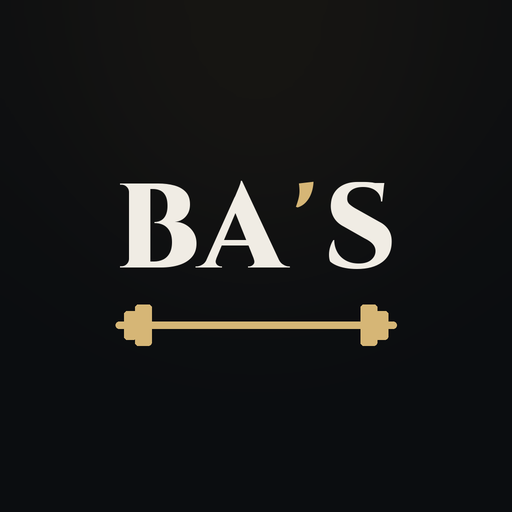
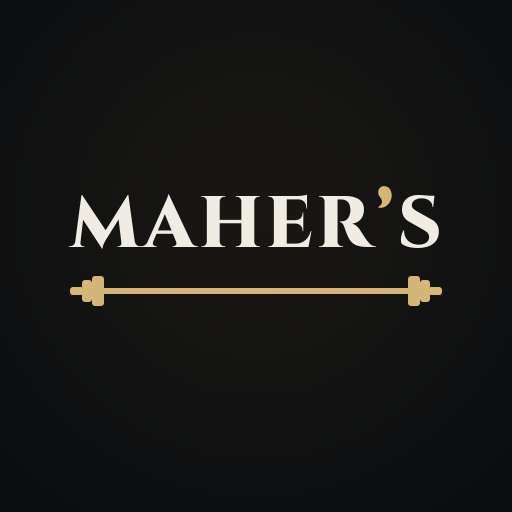
الاسم الجديد: MAHER'S — الهيدر والأيقونة والمانيفست (v77)
Claude-Session: https://claude.ai/code/session_01WkkKEXeXMmR17dA8Cavjmu

Changed region(s): [[0.125, 0.3438, 0.875, 0.5312], [0.125, 0.5312, 0.875, 0.6875]]

diff --git a/index.html b/index.html
@@ -8,7 +8,7 @@
 <link rel="manifest" href="manifest.webmanifest">
 <link rel="icon" href="icon-192.png">
 <link rel="apple-touch-icon" href="icon-192.png">
-<title>BA'S</title>
+<title>MAHER'S</title>
 <style>
 :root{--scb:#000;--sci:#0c0c0c;--font:system-ui,"Noto Naskh Arabic","Segoe UI",Tahoma,sans-serif;--fnum:inherit;--rad:14px;--radb:11px;--radp:99px;--bw:1px;--sh:none;--ttl:none;--ls:0;--bg:#0e0e0f;--s1:#17171a;--s2:#202024;--bd:#2d2d33;--tx:#ece8e1;--mu:#968f85;--ac:#c38d4f;--ac2:#e2b37c;--ok:#7bb072;--mid:#d6b05a;--bad:#d06c57;--onac:#160e05;--hero:#1d1810;--tx2:#cfc6b8;--ph:#55504a;--okbd:#3b5a37;--okbg:#1c2a1a;--midbd:#5c4d2a;--midbg:#2b2616;--badbg:#2a1a15;--acbd:#4a3a28;--acbg:#33261a;--oktx:#a6d69c;--midtx:#e5c97f;--badtx:#f0b3a3}
 *{box-sizing:border-box;-webkit-tap-highlight-color:transparent}
@@ -422,7 +422,7 @@ html[data-th=granite] #sess .ex.wn{background:linear-gradient(180deg,#221e14,#1a
 #sess .meta2 .inp{min-height:44px}
 #sess .exname{min-height:44px;display:flex;align-items:center}
 #sess .scell .inp::placeholder{color:var(--mu);opacity:.55;font-weight:500;font-size:17px}
-/* v72: الاسم BA'S بخط Cinzel كمسارات SVG */
+/* v77: الاسم MAHER'S بخط Cinzel 800 كمسارات SVG (كان BA'S) */
 .brand .wmk{height:17px;width:auto;display:block;flex:none;fill:var(--tx)}.brand .wmk .ap{fill:var(--ac2)}
 /* v73: جملة تحت سطر Cycle */
 @font-face{font-family:"BasQ";src:url(fonts/ruqaa.woff2) format("woff2");font-weight:700;font-display:swap}
@@ -618,11 +618,11 @@ html[data-th=granite] .pst.full{color:var(--gd)}
 <script src="quotes.js"></script>
 <script>
 'use strict';
-const VER='76';
+const VER='77';
 const KEY='gymlog.v1';
 /* ================= اللغة / Language ================= */
 const I18N={
-en:{brand:'<svg class="lg" viewBox="0 0 34 22" fill="none" stroke="currentColor" stroke-width="2" stroke-linecap="round" aria-hidden="true"><path d="M11 11h12"/><rect x="5" y="5" width="4" height="12" rx="1.2" fill="currentColor"/><rect x="25" y="5" width="4" height="12" rx="1.2" fill="currentColor"/><path d="M2 8.5v5M32 8.5v5"/></svg><svg class="wmk" viewBox="0 0 2423 700" role="img" aria-label="BA S"><path d="M113 627V73Q112 47 94 28Q75 10 49 10H36V0H355Q429 0 489 16Q549 32 585 70Q621 107 621 173Q621 219 602 251Q584 283 556 300Q527 317 494 319Q544 322 584 345Q625 368 650 408Q674 448 674 502Q674 569 636 613Q598 657 531 678Q464 700 376 700H36V690H49Q75 690 94 672Q112 653 113 627ZM290 46V652H320Q362 652 396 636Q430 619 450 583Q470 547 470 489Q470 449 460 419Q449 389 430 369Q410 349 384 340Q357 330 324 330V321Q348 321 368 313Q388 305 402 288Q417 272 425 246Q433 221 433 187Q433 135 418 104Q402 73 374 60Q347 46 311 46Z"/><path d="M1116 -22 1426 638Q1440 664 1461 675Q1485 690 1508 690H1516V700H1167V690H1176Q1196 690 1212 674Q1227 657 1214 627H1215L1171 519H946L900 627H901Q892 647 897 661Q902 675 914 682Q927 690 939 690H948V700H729V690H738Q761 690 786 675Q804 665 817 643L1053 118Q1058 111 1066 92Q1073 74 1082 52Q1092 30 1099 10Q1106 -10 1107 -22ZM1061 249 965 473H1152Z"/><path class="ap" d="M1598 0 1718 -14Q1719 5 1714 36Q1708 67 1694 100Q1679 132 1653 160Q1627 187 1587 200L1572 195Q1588 151 1595 121Q1602 91 1602 64Q1603 36 1598 0Z"/><path d="M2097 -14Q2117 -14 2150 -12Q2184 -10 2220 -7Q2232 -5 2244 -4H2320L2317 17L2302 151H2292Q2292 98 2252 65Q2211 32 2142 32Q2082 32 2046 58Q2011 83 2009 122Q2006 155 2030 176Q2054 197 2088 215L2277 321Q2328 346 2356 391Q2383 436 2379 500Q2374 603 2298 658Q2221 714 2090 714Q2039 714 1995 706Q1951 698 1918 684Q1885 669 1866 651Q1857 628 1858 594Q1860 560 1870 526Q1880 493 1894 472H1903Q1900 524 1924 569Q1947 614 1994 641Q2041 668 2106 668Q2175 667 2210 636Q2246 605 2246 563Q2246 531 2224 506Q2202 480 2153 456L1984 360Q1923 329 1896 278Q1868 226 1875 163Q1880 108 1908 68Q1936 29 1984 8Q2032 -14 2097 -14Z"/></svg>',title:"BA'S",langBtn:'عربي',tabs:['Home','Log','Program','Exercises','File'],update:'Update available — tap',
+en:{brand:'<svg class="lg" viewBox="0 0 34 22" fill="none" stroke="currentColor" stroke-width="2" stroke-linecap="round" aria-hidden="true"><path d="M11 11h12"/><rect x="5" y="5" width="4" height="12" rx="1.2" fill="currentColor"/><rect x="25" y="5" width="4" height="12" rx="1.2" fill="currentColor"/><path d="M2 8.5v5M32 8.5v5"/></svg><svg class="wmk" viewBox="0 0 5106 700" role="img" aria-label="MAHER S"><path d="M792 -14H801L889 627H890Q895 657 916 674Q936 690 963 690H979V700H651V691H667Q683 691 695 677Q706 665 706 649L667 322L488 609L478 626Q468 644 458 670Q448 696 448 722H439L180 327L143 643V648Q143 664 154 678Q166 691 182 691H198V700H-17V690H-1Q26 690 47 673Q65 659 71 634L157 -14H166L489 470Z"/><path d="M1357 -22 1667 638Q1681 664 1702 675Q1726 690 1749 690H1757V700H1408V690H1417Q1437 690 1452 674Q1468 657 1455 627H1456L1412 519H1187L1141 627H1142Q1133 647 1138 661Q1143 675 1156 682Q1168 690 1180 690H1189V700H970V690H979Q1002 690 1027 675Q1045 665 1058 643L1294 118Q1299 111 1306 92Q1314 74 1324 52Q1333 30 1340 10Q1347 -10 1348 -22ZM1302 249 1206 473H1393Z"/><path d="M1878 627V73Q1877 47 1858 28Q1840 10 1814 10H1801V0H2132V10H2119Q2093 10 2074 28Q2056 47 2055 73V328H2352V73Q2352 47 2333 28Q2314 10 2288 10H2275V0H2606V10H2593Q2567 10 2548 28Q2530 47 2529 73V627Q2530 653 2548 672Q2567 690 2593 690H2606V700H2275V690H2288Q2314 690 2333 672Q2352 653 2352 627V374H2055V627Q2056 653 2074 672Q2093 690 2119 690H2132V700H1801V690H1814Q1840 690 1858 672Q1877 653 1878 627Z"/><path d="M3314 482 3273 700H2721V690H2734Q2760 690 2778 672Q2797 653 2798 627V73Q2797 47 2778 28Q2760 10 2734 10H2721V0H3131Q3153 0 3178 -3Q3202 -6 3223 -10Q3244 -14 3253 -18V172H3243V162Q3243 109 3213 78Q3187 52 3144 47H2975V332H3096Q3138 331 3166 303Q3193 275 3192 234V228H3202V482H3192V475Q3192 434 3165 406Q3138 379 3096 378H2975V653H3102Q3151 653 3191 632Q3231 612 3260 574Q3289 535 3305 482Z"/><path d="M3494 627V73Q3493 47 3474 28Q3456 10 3430 10H3417V0H3784Q3829 0 3874 9Q3919 18 3956 40Q3992 61 4014 98Q4035 134 4035 189Q4035 229 4020 270Q4004 311 3968 341Q3933 371 3873 379Q3911 390 3940 418Q3968 445 3986 473Q3987 476 3996 491Q4005 506 4020 528Q4034 550 4049 573Q4064 596 4078 614Q4101 643 4118 660Q4136 676 4154 682Q4173 689 4198 690V700H4087Q4030 700 3982 692Q3935 683 3898 660Q3861 637 3833 591Q3823 576 3815 557L3799 520Q3791 502 3785 484Q3779 467 3774 452Q3769 436 3765 425Q3753 391 3738 376Q3722 362 3705 358V348H3728Q3756 348 3780 336Q3804 324 3821 298Q3838 272 3845 229Q3847 220 3848 209Q3849 198 3848 184Q3844 111 3812 80Q3779 49 3732 48H3672V627Q3672 653 3691 672Q3710 690 3736 690H3748V700H3417V690H3430Q3456 690 3474 672Q3493 653 3494 627Z"/><path class="ap" d="M4258 -117Q4280 -135 4308 -136Q4336 -137 4362 -122Q4387 -108 4399 -79Q4420 -34 4414 12Q4408 57 4383 94Q4358 130 4320 149Q4281 168 4235 161L4232 147Q4254 138 4268 118Q4283 98 4282 72Q4280 45 4255 16Q4238 -3 4232 -28Q4227 -54 4234 -78Q4240 -103 4258 -117Z"/><path d="M4780 -14Q4800 -14 4834 -12Q4867 -10 4903 -7Q4915 -5 4927 -4H5003L5000 17L4985 151H4975Q4975 98 4934 65Q4894 32 4825 32Q4765 32 4730 58Q4694 83 4692 122Q4689 155 4713 176Q4737 197 4771 215L4960 321Q5011 346 5038 391Q5066 436 5062 500Q5057 603 4980 658Q4904 714 4773 714Q4722 714 4678 706Q4634 698 4601 684Q4568 669 4549 651Q4540 628 4542 594Q4543 560 4553 526Q4563 493 4577 472H4586Q4583 524 4606 569Q4630 614 4677 641Q4724 668 4789 668Q4858 667 4894 636Q4929 605 4929 563Q4929 531 4907 506Q4885 480 4836 456L4667 360Q4606 329 4578 278Q4551 226 4558 163Q4563 108 4591 68Q4619 29 4667 8Q4715 -14 4780 -14Z"/></svg>',title:"MAHER'S",langBtn:'عربي',tabs:['Home','Log','Program','Exercises','File'],update:'Update available — tap',
  next:'Next session',coreL:'Core',start:'Start',draftOpen:'Unsaved session in progress',draftEdit:'Editing a session',resume:'Continue',
  last7:'Last 7 days',sessions:'sessions',lastSess:'Last session',min3:'Weekly minimum is 3 sessions.',
  bkNone:'No backup yet.',bkAgo:n=>`Last backup was ${n} day(s) ago.`,bkWarn:' If Chrome data is cleared, the log goes with it.',bkNowBtn:'Save a backup file now',
@@ -659,7 +659,7 @@ en:{brand:'<svg class="lg" viewBox="0 0 34 22" fill="none" stroke="currentColor"
  aiTarget:'Target',aiWeight:'Weight',aiSets:'Sets',aiForm:'Form',aiClean:'clean (no momentum, full control)',aiNotClean:'not marked clean',
  aiLast:'Previous',aiStatus:'Status',aiNote:'Note',aiNotDone:'Not done',aiCoreTag:'[core]',bw:'bodyweight',
  st2:{q1:'qualified 1 of 2',up:'increase earned',stuck:n=>`${n} sessions at this weight without an increase`},
- mdTitle:"BA'S — Backup",mdExported:'Exported',mdSessions:'Sessions',mdProgram:'Program',mdLog:'Log (newest first)',
+ mdTitle:"MAHER'S — Backup",mdExported:'Exported',mdSessions:'Sessions',mdProgram:'Program',mdLog:'Log (newest first)',
  mdCols:['#','Exercise','Weight','Target','Core','Notes'],mdSCols:['Exercise','Weight','Sets','Clean','Note'],mdData:'Data used by “Restore” in the app — do not edit',yes:'✓',
  csvH:['Date','Cycle','Day','Exercise','Weight','Sets','Set count','Total reps','Clean','Core','Note'],coreLine:'Core',themeT:'Theme',histNote:n=>`${n} past session(s) from your earlier log were added.`,todayL:'Today',otherDay:'Start a different day',newInstead:'Start a new session instead',weekOf:n=>`${n} session(s) in the last 7 days · goal 3`,
  syncT:'Encrypted auto-backup (GitHub)',syncHint:'After every session the whole log is encrypted on this phone and uploaded to your repo. Without the passphrase the file is unreadable.',
@@ -674,7 +674,7 @@ en:{brand:'<svg class="lg" viewBox="0 0 34 22" fill="none" stroke="currentColor"
  syncPub:'Your encrypted backups are going to a PUBLIC repo. Create a private repo, then tap Turn off and enable the backup again with the new repo name.',undoRestore:'Undo last restore',confUndoRestore:'Go back to the data you had before the last restore?',undoDone:'Back to your data before the restore ✓',
  restoredSkip:n=>`Restored ✓ (${n} damaged session(s) skipped)`,syncAfterRestore:'Turn on encrypted auto-backup on this phone with the same repo and passphrase?'
 },
-ar:{brand:'<svg class="lg" viewBox="0 0 34 22" fill="none" stroke="currentColor" stroke-width="2" stroke-linecap="round" aria-hidden="true"><path d="M11 11h12"/><rect x="5" y="5" width="4" height="12" rx="1.2" fill="currentColor"/><rect x="25" y="5" width="4" height="12" rx="1.2" fill="currentColor"/><path d="M2 8.5v5M32 8.5v5"/></svg><svg class="wmk" viewBox="0 0 2423 700" role="img" aria-label="BA S"><path d="M113 627V73Q112 47 94 28Q75 10 49 10H36V0H355Q429 0 489 16Q549 32 585 70Q621 107 621 173Q621 219 602 251Q584 283 556 300Q527 317 494 319Q544 322 584 345Q625 368 650 408Q674 448 674 502Q674 569 636 613Q598 657 531 678Q464 700 376 700H36V690H49Q75 690 94 672Q112 653 113 627ZM290 46V652H320Q362 652 396 636Q430 619 450 583Q470 547 470 489Q470 449 460 419Q449 389 430 369Q410 349 384 340Q357 330 324 330V321Q348 321 368 313Q388 305 402 288Q417 272 425 246Q433 221 433 187Q433 135 418 104Q402 73 374 60Q347 46 311 46Z"/><path d="M1116 -22 1426 638Q1440 664 1461 675Q1485 690 1508 690H1516V700H1167V690H1176Q1196 690 1212 674Q1227 657 1214 627H1215L1171 519H946L900 627H901Q892 647 897 661Q902 675 914 682Q927 690 939 690H948V700H729V690H738Q761 690 786 675Q804 665 817 643L1053 118Q1058 111 1066 92Q1073 74 1082 52Q1092 30 1099 10Q1106 -10 1107 -22ZM1061 249 965 473H1152Z"/><path class="ap" d="M1598 0 1718 -14Q1719 5 1714 36Q1708 67 1694 100Q1679 132 1653 160Q1627 187 1587 200L1572 195Q1588 151 1595 121Q1602 91 1602 64Q1603 36 1598 0Z"/><path d="M2097 -14Q2117 -14 2150 -12Q2184 -10 2220 -7Q2232 -5 2244 -4H2320L2317 17L2302 151H2292Q2292 98 2252 65Q2211 32 2142 32Q2082 32 2046 58Q2011 83 2009 122Q2006 155 2030 176Q2054 197 2088 215L2277 321Q2328 346 2356 391Q2383 436 2379 500Q2374 603 2298 658Q2221 714 2090 714Q2039 714 1995 706Q1951 698 1918 684Q1885 669 1866 651Q1857 628 1858 594Q1860 560 1870 526Q1880 493 1894 472H1903Q1900 524 1924 569Q1947 614 1994 641Q2041 668 2106 668Q2175 667 2210 636Q2246 605 2246 563Q2246 531 2224 506Q2202 480 2153 456L1984 360Q1923 329 1896 278Q1868 226 1875 163Q1880 108 1908 68Q1936 29 1984 8Q2032 -14 2097 -14Z"/></svg>',title:"BA'S",langBtn:'EN',tabs:['الرئيسية','السجل','البرنامج','التمارين','الملف'],update:'فيه تحديث — اضغط',
+ar:{brand:'<svg class="lg" viewBox="0 0 34 22" fill="none" stroke="currentColor" stroke-width="2" stroke-linecap="round" aria-hidden="true"><path d="M11 11h12"/><rect x="5" y="5" width="4" height="12" rx="1.2" fill="currentColor"/><rect x="25" y="5" width="4" height="12" rx="1.2" fill="currentColor"/><path d="M2 8.5v5M32 8.5v5"/></svg><svg class="wmk" viewBox="0 0 5106 700" role="img" aria-label="MAHER S"><path d="M792 -14H801L889 627H890Q895 657 916 674Q936 690 963 690H979V700H651V691H667Q683 691 695 677Q706 665 706 649L667 322L488 609L478 626Q468 644 458 670Q448 696 448 722H439L180 327L143 643V648Q143 664 154 678Q166 691 182 691H198V700H-17V690H-1Q26 690 47 673Q65 659 71 634L157 -14H166L489 470Z"/><path d="M1357 -22 1667 638Q1681 664 1702 675Q1726 690 1749 690H1757V700H1408V690H1417Q1437 690 1452 674Q1468 657 1455 627H1456L1412 519H1187L1141 627H1142Q1133 647 1138 661Q1143 675 1156 682Q1168 690 1180 690H1189V700H970V690H979Q1002 690 1027 675Q1045 665 1058 643L1294 118Q1299 111 1306 92Q1314 74 1324 52Q1333 30 1340 10Q1347 -10 1348 -22ZM1302 249 1206 473H1393Z"/><path d="M1878 627V73Q1877 47 1858 28Q1840 10 1814 10H1801V0H2132V10H2119Q2093 10 2074 28Q2056 47 2055 73V328H2352V73Q2352 47 2333 28Q2314 10 2288 10H2275V0H2606V10H2593Q2567 10 2548 28Q2530 47 2529 73V627Q2530 653 2548 672Q2567 690 2593 690H2606V700H2275V690H2288Q2314 690 2333 672Q2352 653 2352 627V374H2055V627Q2056 653 2074 672Q2093 690 2119 690H2132V700H1801V690H1814Q1840 690 1858 672Q1877 653 1878 627Z"/><path d="M3314 482 3273 700H2721V690H2734Q2760 690 2778 672Q2797 653 2798 627V73Q2797 47 2778 28Q2760 10 2734 10H2721V0H3131Q3153 0 3178 -3Q3202 -6 3223 -10Q3244 -14 3253 -18V172H3243V162Q3243 109 3213 78Q3187 52 3144 47H2975V332H3096Q3138 331 3166 303Q3193 275 3192 234V228H3202V482H3192V475Q3192 434 3165 406Q3138 379 3096 378H2975V653H3102Q3151 653 3191 632Q3231 612 3260 574Q3289 535 3305 482Z"/><path d="M3494 627V73Q3493 47 3474 28Q3456 10 3430 10H3417V0H3784Q3829 0 3874 9Q3919 18 3956 40Q3992 61 4014 98Q4035 134 4035 189Q4035 229 4020 270Q4004 311 3968 341Q3933 371 3873 379Q3911 390 3940 418Q3968 445 3986 473Q3987 476 3996 491Q4005 506 4020 528Q4034 550 4049 573Q4064 596 4078 614Q4101 643 4118 660Q4136 676 4154 682Q4173 689 4198 690V700H4087Q4030 700 3982 692Q3935 683 3898 660Q3861 637 3833 591Q3823 576 3815 557L3799 520Q3791 502 3785 484Q3779 467 3774 452Q3769 436 3765 425Q3753 391 3738 376Q3722 362 3705 358V348H3728Q3756 348 3780 336Q3804 324 3821 298Q3838 272 3845 229Q3847 220 3848 209Q3849 198 3848 184Q3844 111 3812 80Q3779 49 3732 48H3672V627Q3672 653 3691 672Q3710 690 3736 690H3748V700H3417V690H3430Q3456 690 3474 672Q3493 653 3494 627Z"/><path class="ap" d="M4258 -117Q4280 -135 4308 -136Q4336 -137 4362 -122Q4387 -108 4399 -79Q4420 -34 4414 12Q4408 57 4383 94Q4358 130 4320 149Q4281 168 4235 161L4232 147Q4254 138 4268 118Q4283 98 4282 72Q4280 45 4255 16Q4238 -3 4232 -28Q4227 -54 4234 -78Q4240 -103 4258 -117Z"/><path d="M4780 -14Q4800 -14 4834 -12Q4867 -10 4903 -7Q4915 -5 4927 -4H5003L5000 17L4985 151H4975Q4975 98 4934 65Q4894 32 4825 32Q4765 32 4730 58Q4694 83 4692 122Q4689 155 4713 176Q4737 197 4771 215L4960 321Q5011 346 5038 391Q5066 436 5062 500Q5057 603 4980 658Q4904 714 4773 714Q4722 714 4678 706Q4634 698 4601 684Q4568 669 4549 651Q4540 628 4542 594Q4543 560 4553 526Q4563 493 4577 472H4586Q4583 524 4606 569Q4630 614 4677 641Q4724 668 4789 668Q4858 667 4894 636Q4929 605 4929 563Q4929 531 4907 506Q4885 480 4836 456L4667 360Q4606 329 4578 278Q4551 226 4558 163Q4563 108 4591 68Q4619 29 4667 8Q4715 -14 4780 -14Z"/></svg>',title:"MAHER'S",langBtn:'EN',tabs:['الرئيسية','السجل','البرنامج','التمارين','الملف'],update:'فيه تحديث — اضغط',
  next:'الجلسة الجاية',coreL:'الأساسي',start:'ابدأ',draftOpen:'جلسة مفتوحة لسه ماتحفظتش',draftEdit:'تعديل جلسة',resume:'كمّل',
  last7:'آخر ٧ أيام',sessions:'جلسات',lastSess:'آخر جلسة',min3:'الحد الأدنى في الأسبوع ٣ جلسات.',
  bkNone:'لسه ماعملتش ولا نسخة احتياطية.',bkAgo:n=>`آخر نسخة احتياطية من ${n} يوم.`,bkWarn:' لو بيانات Chrome اتمسحت، السجل هيضيع معاها.',bkNowBtn:'احفظ نسخة في ملف دلوقتي',
@@ -711,7 +711,7 @@ ar:{brand:'<svg class="lg" viewBox="0 0 34 22" fill="none" stroke="currentColor"
  aiTarget:'الهدف',aiWeight:'الوزن',aiSets:'المجموعات',aiForm:'الأداء',aiClean:'نضيف (من غير مرجحة وبتحكّم كامل)',aiNotClean:'مش متعلّم نضيف',
  aiLast:'المرة اللي فاتت',aiStatus:'الحالة',aiNote:'ملاحظة',aiNotDone:'ماتلعبش',aiCoreTag:'[أساسي]',bw:'وزن الجسم',
  st2:{q1:'مؤهل ١ من ٢',up:'استحق زيادة',stuck:n=>`${n} جلسات على نفس الوزن من غير زيادة`},
- mdTitle:"BA'S — نسخة احتياطية",mdExported:'اتعملت',mdSessions:'الجلسات',mdProgram:'البرنامج',mdLog:'السجل (الأحدث الأول)',
+ mdTitle:"MAHER'S — نسخة احتياطية",mdExported:'اتعملت',mdSessions:'الجلسات',mdProgram:'البرنامج',mdLog:'السجل (الأحدث الأول)',
  mdCols:['#','التمرين','الوزن','الهدف','أساسي','تعليمات'],mdSCols:['التمرين','الوزن','المجموعات','نضيف','ملاحظة'],mdData:'بيانات بيستخدمها زرار «استرجاع» في التطبيق — ماتعدّلهاش',yes:'✓',
  csvH:['التاريخ','Cycle','اليوم','التمرين','الوزن','المجموعات','عدد المجموعات','إجمالي العدّات','نضيف','أساسي','ملاحظة'],coreLine:'الأساسي',themeT:'الشكل',histNote:n=>`اتضاف ${n} جلسة من سجلك القديم.`,todayL:'النهارده',otherDay:'ابدأ يوم تاني',newInstead:'ابدأ جلسة جديدة بدلها',weekOf:n=>`${n} جلسة في آخر ٧ أيام · الهدف ٣`,
  syncT:'نسخة أوتوماتيك مشفّرة (GitHub)',syncHint:'بعد كل جلسة السجل كله بيتشفّر على الموبايل وبيترفع للريبو بتاعك. من غير العبارة السرية الملف مش بيتفتح.',

diff --git a/quotes.js b/quotes.js
@@ -1,4 +1,4 @@
-/* BA'S — جمل الشاشة الرئيسية (تحت سطر Cycle وفوق «التفاصيل")
+/* MAHER'S — جمل الشاشة الرئيسية (تحت سطر Cycle وفوق «التفاصيل")
    الحالة بتتحدد من آخر جلسة:
    start  = لسه مفيش ولا جلسة
    live   = فيه جلسة مفتوحة لسه ما خلصتش

diff --git a/README.md b/README.md
@@ -1,3 +1,3 @@
-# BA'S
+# MAHER'S
 
 **افتح التطبيق:** https://notimetocry29-dot.github.io/Gymlog-app/
